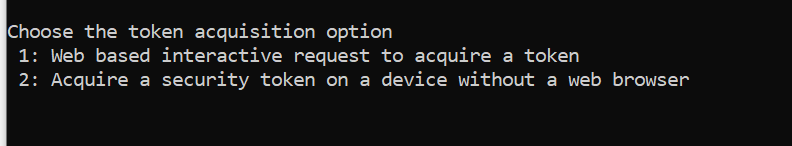
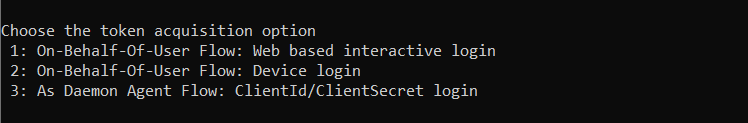
client credentials flow option implemented

Changed region(s): [[0.0, 0.0, 0.8917, 1.0]]

diff --git a/Program.cs b/Program.cs
@@ -30,24 +30,39 @@ using System;
 using System.Collections.Generic;
 using System.Linq;
 using System.Threading.Tasks;
+using System.Windows.Interop;
 
 namespace Perspio.Talk.Sample.DotNet
 {
     class Program
     {
-        //Set the scope for API call 
-        static string[] _scopes = new string[] { "api://a916b11b-5b63-4a0d-9a7d-d70d20c0b9ac/access_as_user" };
 
         // You have to replace:
-        // - ClientId: The Application Id for your Perspio Talk Client App registration - Provided by Inauro
-        // - TenantId: Azure Tenant hosting the Perspio platform - Provided by Inauro
+        // - clientId: The Application Id for your Perspio Talk Client App registration - Provided by Inauro
+        // - tenant: Azure Tenant hosting the Perspio platform - Provided by Inauro
+        // - subscriptionKey : A unique kep mapped to your Perspio Tenant
+        // - clientSecret: [Optional] If on-behalf-of-user level access is not required then clientId/secret is needed
 
-        private static string ClientId = "xxxxxxxx-xxxx-xxxx-xxxx-xxxxxxxxx";
-        private static string Tenant = "xxxxxxx-xxxx-xxxx-xxxx-xxxxxxxxxx";
-        private static string Instance = "https://login.microsoftonline.com/";
-        static string perspioTalkAPIEndpoint = "https://dev-talk.perspio.io/aad/v1/currentuser"; // this API will return your brief profile
+        private static string _subscriptionKey = "----";
+        private static string _clientId = "---";
+        private static string _clientSecret = "---";
+        private static string _tenant = "----";
+        private static string _instance = "https://login.microsoftonline.com/";
+        private static string _perspioTalkAPIEndpoint = "https://dev-talk.perspio.io";
+
+
+        private static string _apiToInvoke = "";
+        private static string _apiToInvokeOnUserBehalf = "/aad/v3/currentuser"; // this API will return your brief profile
+        private static string _apiToInvokeAsDaemon = "/locations/v3/labels"; // this API will return your brief profile
+
+        
+        //Set the scope for API call 
+        static string[] _publicAppscopes = new string[] { "api://-----/access_as_user" }; // for clients accessinf data on-behalf-of-a user 
+        static string[] _confidentialAppscopes = new string[] { "api://-----/.default" }; // for clients running as a daemon agent
+
 
         private static IPublicClientApplication _clientApp;
+        private static IConfidentialClientApplication _confClientApp;
 
         static async Task Main()
         {
@@ -56,96 +71,138 @@ namespace Perspio.Talk.Sample.DotNet
             AuthenticationResult authResult = await AuthenticateClient(); // login using Device Flow only once - subsequent run of the program will automatically acquire the token from the cache or refresh it
 
             var response = await InvokeAPI(authResult);
-            Console.WriteLine($"Api Response: {response}");
-            Console.ReadLine();
-            
-            //2nd API call without authenticating using deviceflow  ( reusing the token from the token cache)
-            authResult = await AuthenticateClient();
-            response = await InvokeAPI(authResult);
-            Console.WriteLine($"Api Response: {response}");
+            Console.WriteLine();
+            Console.WriteLine($"Api Response: {Environment.NewLine} {response}");
             Console.ReadLine();
 
         }
 
-    private static void PrepareClient()
-    {
-        _clientApp = PublicClientApplicationBuilder.Create(ClientId)
-                 .WithAuthority($"{Instance}{Tenant}")
-                 .WithDefaultRedirectUri()
-                 .Build();
-        TokenCacheHelper.EnableSerialization(_clientApp.UserTokenCache);
-    }
-
-    private static async Task<AuthenticationResult> AuthenticateClient()
-    {
-        AuthenticationResult authResult = null;
-
-        IEnumerable<IAccount> accounts = await _clientApp.GetAccountsAsync();
-        IAccount firstAccount = accounts.FirstOrDefault();
-
-        try
+        private static void PrepareClient()
         {
-            authResult = await _clientApp.AcquireTokenSilent(_scopes, firstAccount)
-                .ExecuteAsync();
+            _clientApp = PublicClientApplicationBuilder.Create(_clientId)
+                     .WithAuthority($"{_instance}{_tenant}")
+                     .WithDefaultRedirectUri()
+                     .Build();
+            TokenCacheHelper.EnableSerialization(_clientApp.UserTokenCache);
+
+            _confClientApp = ConfidentialClientApplicationBuilder
+                    .Create(_clientId)
+                    .WithTenantId(_tenant)
+                    .WithClientSecret(_clientSecret)
+                    .Build();
+            TokenCacheHelper.EnableSerialization(_confClientApp.UserTokenCache);
+
         }
-        catch (MsalUiRequiredException ex)
+
+        private static async Task<AuthenticationResult> AuthenticateClient()
         {
-            // A MsalUiRequiredException happened on AcquireTokenSilent. 
-            // This indicates you need to call AcquireTokenWithDeviceCode to acquire a token
-            System.Diagnostics.Debug.WriteLine($"MsalUiRequiredException: {ex.Message}");
+            AuthenticationResult authResult = null;
+
+            IEnumerable<IAccount> accounts = await _clientApp.GetAccountsAsync();
+            IAccount firstAccount = accounts.FirstOrDefault();
 
             try
             {
-                authResult = await _clientApp.AcquireTokenWithDeviceCode(_scopes, deviceCodeResult =>
+                authResult = await _clientApp.AcquireTokenSilent(_publicAppscopes, firstAccount)
+                    .ExecuteAsync();
+                if (authResult != null)
                 {
-                    Console.WriteLine(deviceCodeResult.Message);
-                    return Task.FromResult(0);
-                }).ExecuteAsync();
+                    Console.WriteLine($"Continue using the tokens from the cache?{Environment.NewLine} " +
+                        $"Y: Login silently using the last access/refresh tokens from cache(if not expired) {Environment.NewLine} " +
+                        $"N: Login and acquire new access and refresh tokens");
+                    var response = Console.ReadKey();
+                    if (response.Key.ToString().ToLower() == "n")
+                    {
+                        Console.WriteLine();
+                        throw new MsalUiRequiredException("0", "Force relogin");
+                    }
 
+                }
             }
-            catch (MsalException msalex)
+            catch (MsalUiRequiredException ex)
             {
-                Console.WriteLine($"Error Acquiring Token Silently:{System.Environment.NewLine}{msalex}");
+                // A MsalUiRequiredException happened on AcquireTokenSilent. 
+                // This indicates you need to call AcquireTokenWithDeviceCode to acquire a token
+                System.Diagnostics.Debug.WriteLine($"MsalUiRequiredException: {ex.Message}");
+
+                try
+                {
+                    Console.WriteLine();
+                    Console.WriteLine($"Choose the token acquisition option{Environment.NewLine} " +
+                        $"1: On-Behalf-Of-User Flow: Web based interactive login {Environment.NewLine} " +
+                        $"2: On-Behalf-Of-User Flow: Device login {Environment.NewLine} " +
+                        $"3: As Daemon Agent Flow: ClientId/ClientSecret login {Environment.NewLine} ");
+                    Console.Write(" ");
+                    var response = Console.ReadKey();
+
+                    if (response.Key.ToString() == "D1")
+                    {
+                        authResult = await _clientApp.AcquireTokenInteractive(_publicAppscopes)
+                          .WithAccount(firstAccount)
+                          .WithPrompt(Prompt.SelectAccount)
+                          .ExecuteAsync();
+                        _apiToInvoke = _apiToInvokeOnUserBehalf;
+                    }
+                    else if (response.Key.ToString() == "D2")
+                    {
+                        authResult = await _clientApp.AcquireTokenWithDeviceCode(_publicAppscopes, deviceCodeResult =>
+                        {
+                            Console.WriteLine(deviceCodeResult.Message);
+                            return Task.FromResult(0);
+                        }).ExecuteAsync();
+                        _apiToInvoke = _apiToInvokeOnUserBehalf;
+                    }
+                    else if (response.Key.ToString() == "D3")
+                    {
+                        
+                        authResult = await _confClientApp.AcquireTokenForClient(_confidentialAppscopes).ExecuteAsync();
+                        _apiToInvoke = _apiToInvokeAsDaemon;
+                    }
+                }
+                catch (MsalException msalex)
+                {
+                    Console.WriteLine($"Error Acquiring Token Interactively:{System.Environment.NewLine}{msalex}");
+                }
+            }
+            catch (Exception ex)
+            {
+                Console.WriteLine($"Error Acquiring Token Silently:{System.Environment.NewLine}{ex}");
+            }
+
+            return authResult;
+        }
+
+        private static async Task<string> InvokeAPI(AuthenticationResult authResult)
+        {
+            if (authResult != null)
+            {
+                //Debug
+                //Console.WriteLine($"Access Token: {authResult.AccessToken}");
+                //Console.WriteLine($"View at: https://jwt.ms/?#access_token={authResult.AccessToken}");
+
+                return await GetHttpContentWithToken($"{_perspioTalkAPIEndpoint}{_apiToInvoke}", authResult.AccessToken);
+            }
+            return null;
+
+        }
+        public static async Task<string> GetHttpContentWithToken(string url, string token)
+        {
+            var httpClient = new System.Net.Http.HttpClient();
+            System.Net.Http.HttpResponseMessage response;
+            try
+            {
+                var request = new System.Net.Http.HttpRequestMessage(System.Net.Http.HttpMethod.Get, url);
+                request.Headers.Authorization = new System.Net.Http.Headers.AuthenticationHeaderValue("Bearer", token);
+                request.Headers.Add("Ocp-Apim-Subscription-Key", _subscriptionKey);
+                response = await httpClient.SendAsync(request);
+                var content = await response.Content.ReadAsStringAsync();
+                return content;
+            }
+            catch (Exception ex)
+            {
+                return ex.ToString();
             }
         }
-        catch (Exception ex)
-        {
-            Console.WriteLine($"Error Acquiring Token Silently:{System.Environment.NewLine}{ex}");
-        }
-        return authResult;
     }
-
-    private static async Task<string> InvokeAPI(AuthenticationResult authResult)
-    {
-        if (authResult != null)
-        {
-            //Debug
-            //Console.WriteLine($"Access Token: {authResult.AccessToken}");
-            //Console.WriteLine($"View at: https://jwt.ms/?#access_token={authResult.AccessToken}");
-
-            return await GetHttpContentWithToken(perspioTalkAPIEndpoint, authResult.AccessToken);
-        }
-        return null;
-
-    }
-    public static async Task<string> GetHttpContentWithToken(string url, string token)
-    {
-        var httpClient = new System.Net.Http.HttpClient();
-        System.Net.Http.HttpResponseMessage response;
-        try
-        {
-            var request = new System.Net.Http.HttpRequestMessage(System.Net.Http.HttpMethod.Get, url);
-            //Add the token in Authorization header
-            request.Headers.Authorization = new System.Net.Http.Headers.AuthenticationHeaderValue("Bearer", token);
-            response = await httpClient.SendAsync(request);
-            var content = await response.Content.ReadAsStringAsync();
-            return content;
-        }
-        catch (Exception ex)
-        {
-            return ex.ToString();
-        }
-    }
-}
 
 }

diff --git a/README.md b/README.md
@@ -2,22 +2,42 @@
 
 ###About this sample
 
-This app is a sample app built in .Net and demonstrates a simple use case of retriveing your user profile from Perspio APIs. 
+This app is a sample app built in .Net and demonstrates how you can access Perspio Talk APIs
+- on behalf of a user : suitable for a web client where your users login to
+- using clientId/secret: suitable for daemon agents/background jobs scenario
 
 ### Run the  sample application
 #### Step 1: Obtain client credentials from Inauro
 To test the application you will need the following from Inauro
-- Azure Tenant Id
-- Client id for your Perspio Talk Client Application
+- clientId: The Application Id for your Perspio Talk Client App registration - Provided by Inauro
+- tenant: Azure Tenant hosting the Perspio platform - Provided by Inauro
+- subscriptionKey : A unique kep mapped to your Perspio Tenant
+- clientSecret: Required to test 'As Daemon' agent flow
+- userId/password: Required to test on-behalf-of user flow
+- Perspio Talk API end point: By default 
+- for dev & testing
+  
+
+        private static string _subscriptionKey = "----";
+        private static string _clientId = "---";
+        private static string _clientSecret = "---";
+        private static string _tenant = "----";
+        private static string _instance = "https://login.microsoftonline.com/";
+        private static string _perspioTalkAPIEndpoint = "https://dev-talk.perspio.io";
+
 
 Update these values in the program.cs file
 
-        private static string ClientId = "xxxxxxxx-xxxx-xxxx-xxxx-xxxxxxxxx";
-        private static string Tenant = "xxxxxxx-xxxx-xxxx-xxxx-xxxxxxxxxx";
+        private static string _subscriptionKey = "xxxxxxxx-xxxx-xxxx-xxxx-xxxxxxxxx";
+        private static string _clientId = "xxxxxxxx-xxxx-xxxx-xxxx-xxxxxxxxx";
+        private static string _clientSecret = "xxxxxxxx-xxxx-xxxx-xxxx-xxxxxxxxx";
+        private static string _tenant = "xxxxxxxx-xxxx-xxxx-xxxx-xxxxxxxxx";
+        private static string _instance = "https://login.microsoftonline.com/";
+        private static string _perspioTalkAPIEndpoint = "https://dev-talk.perspio.io";
 
-You will also need 
+You will also need to 
 - Your userid and password to login in the following step
-- subscriptionkey: Perspio Talk API Subscription Key, a unique key assigned to your Perspio Customer Account
+  
   
 #### Step2: Run the console application and login to windows
 
